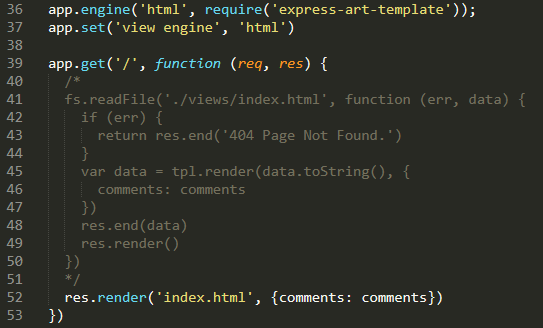
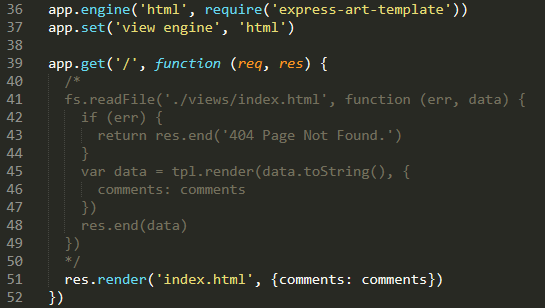
modify descri

diff --git a/express/app.js b/express/app.js
@@ -33,7 +33,11 @@ var app = express()
 app.use('/public/', express.static('public'))
 // app.use(express.static('./public'))
 
+app.engine('html', require('express-art-template'))
+app.set('view engine', 'html')
+
 app.get('/', function (req, res) {
+	/*
 	fs.readFile('./views/index.html', function (err, data) {
 		if (err) {
 			return res.end('404 Page Not Found.')
@@ -43,6 +47,8 @@ app.get('/', function (req, res) {
 		})
 		res.end(data)
 	})
+	*/
+	res.render('index.html', {comments: comments})
 })
 
 app.get('/post', function (req, res) {

diff --git a/README.md b/README.md
@@ -215,7 +215,7 @@ app.get('/', function (req, res) {
 
 ##### 应用
 
-掌握了基本方法后，就按照这个要求对代码中的结构做相应改动，最终结果如下：
+掌握了基本方法后，就按照语法对代码中的结构做相应改动，最终结果如下：
 
 ![art1](./imgs/art1.png)
 
